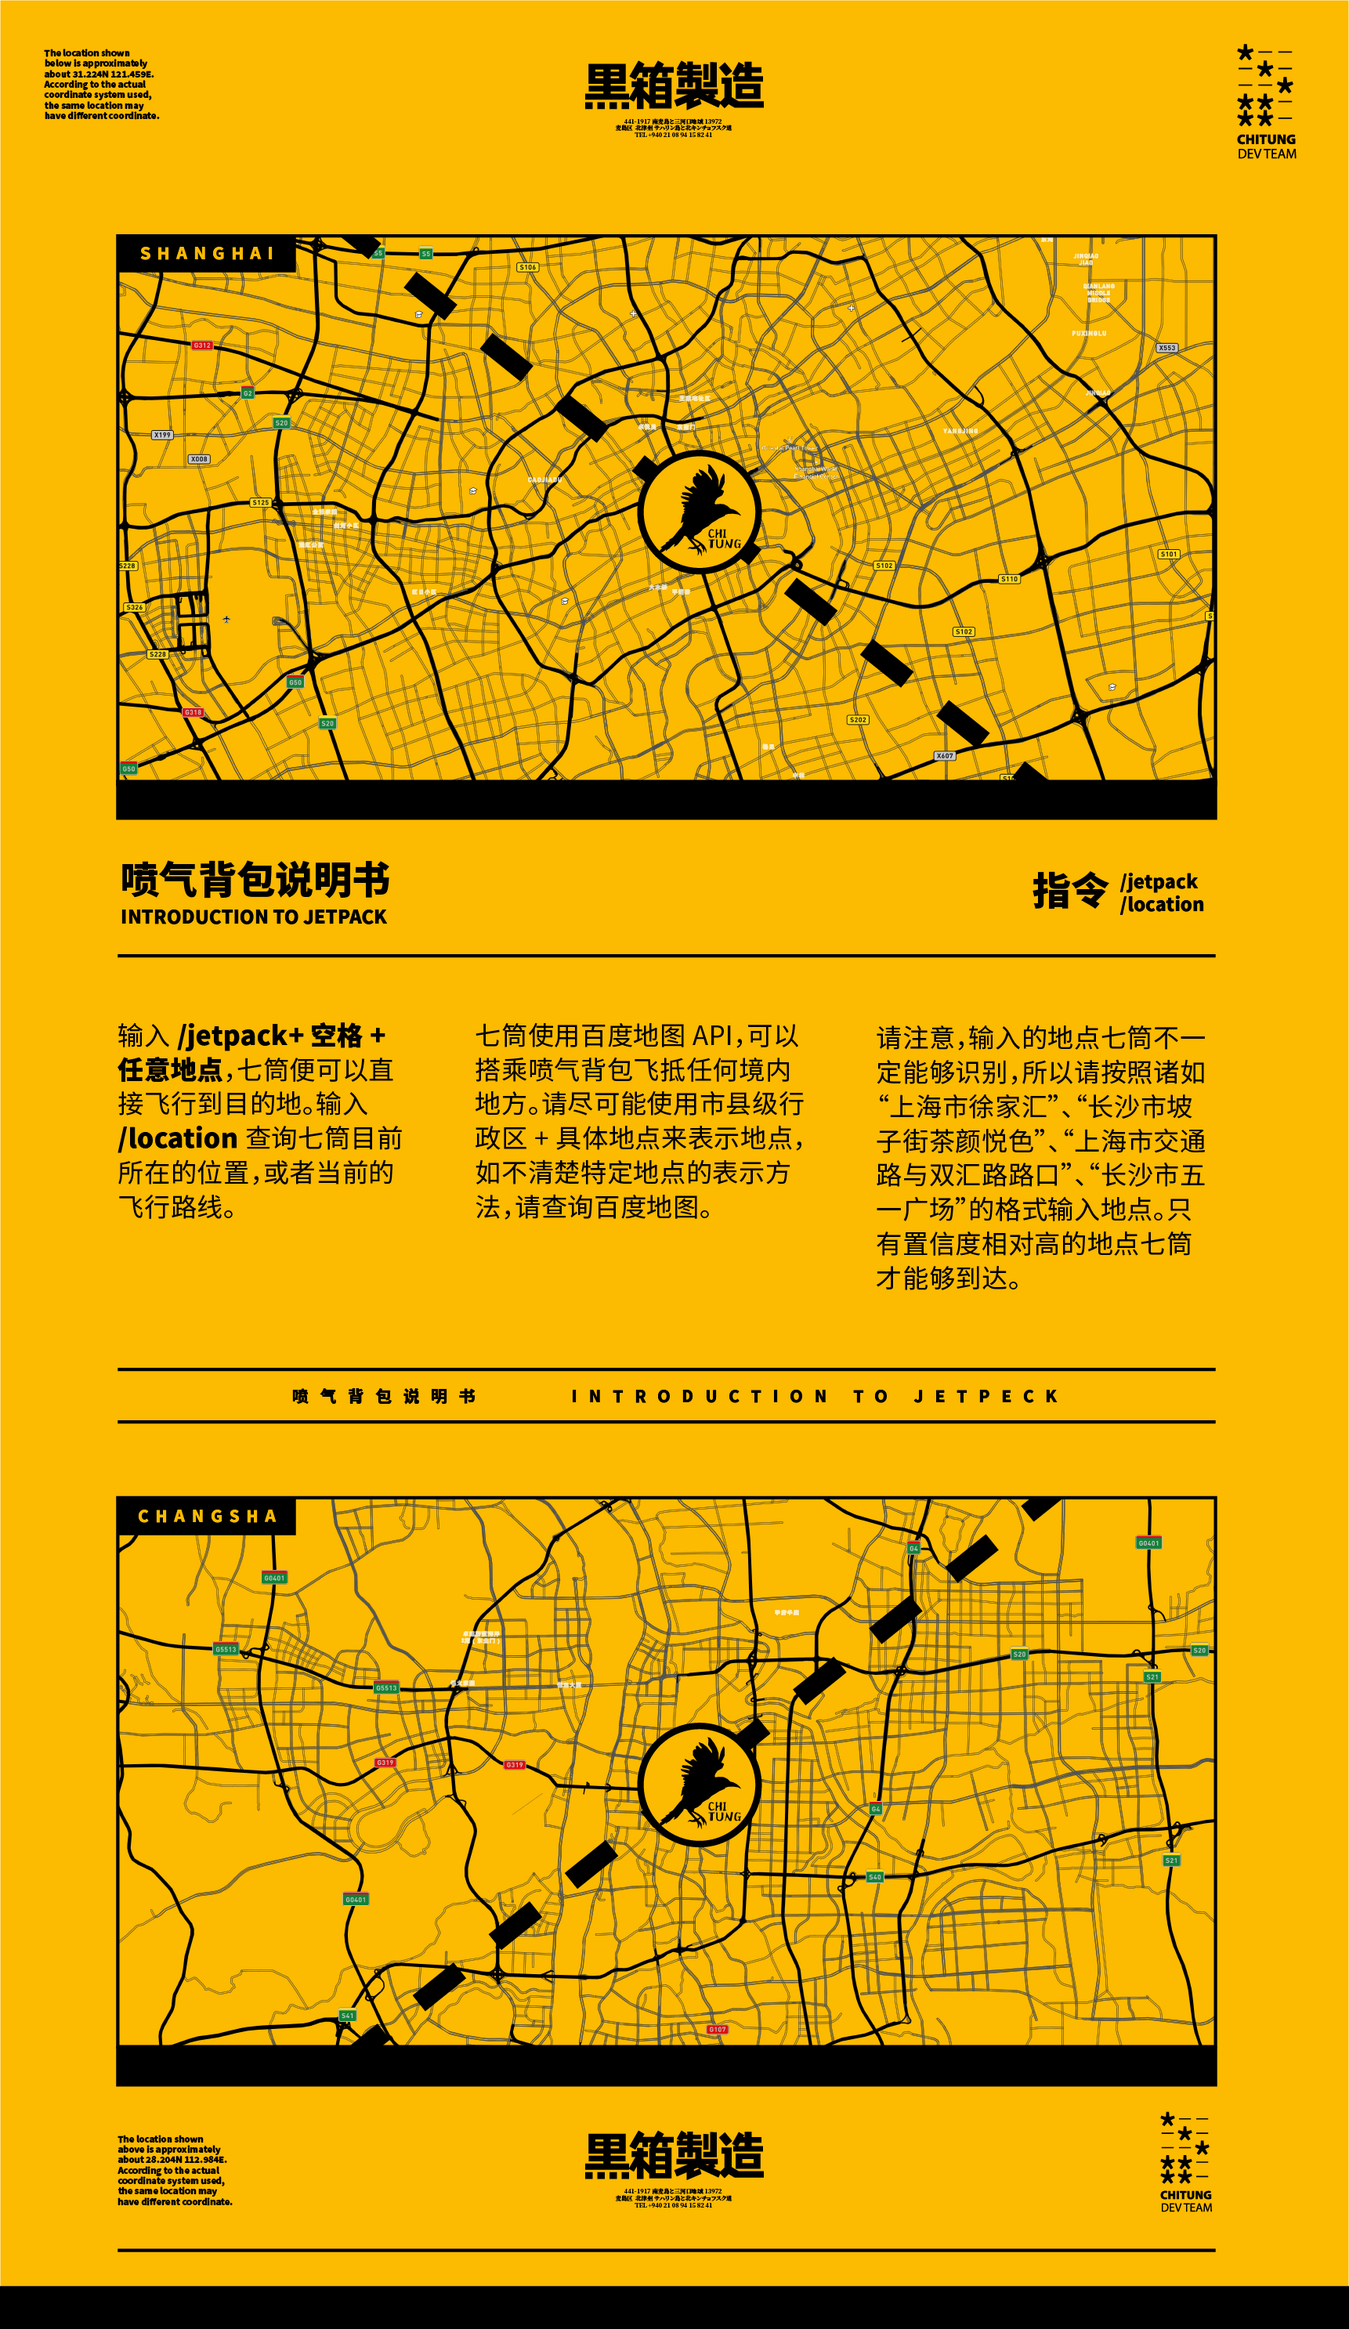
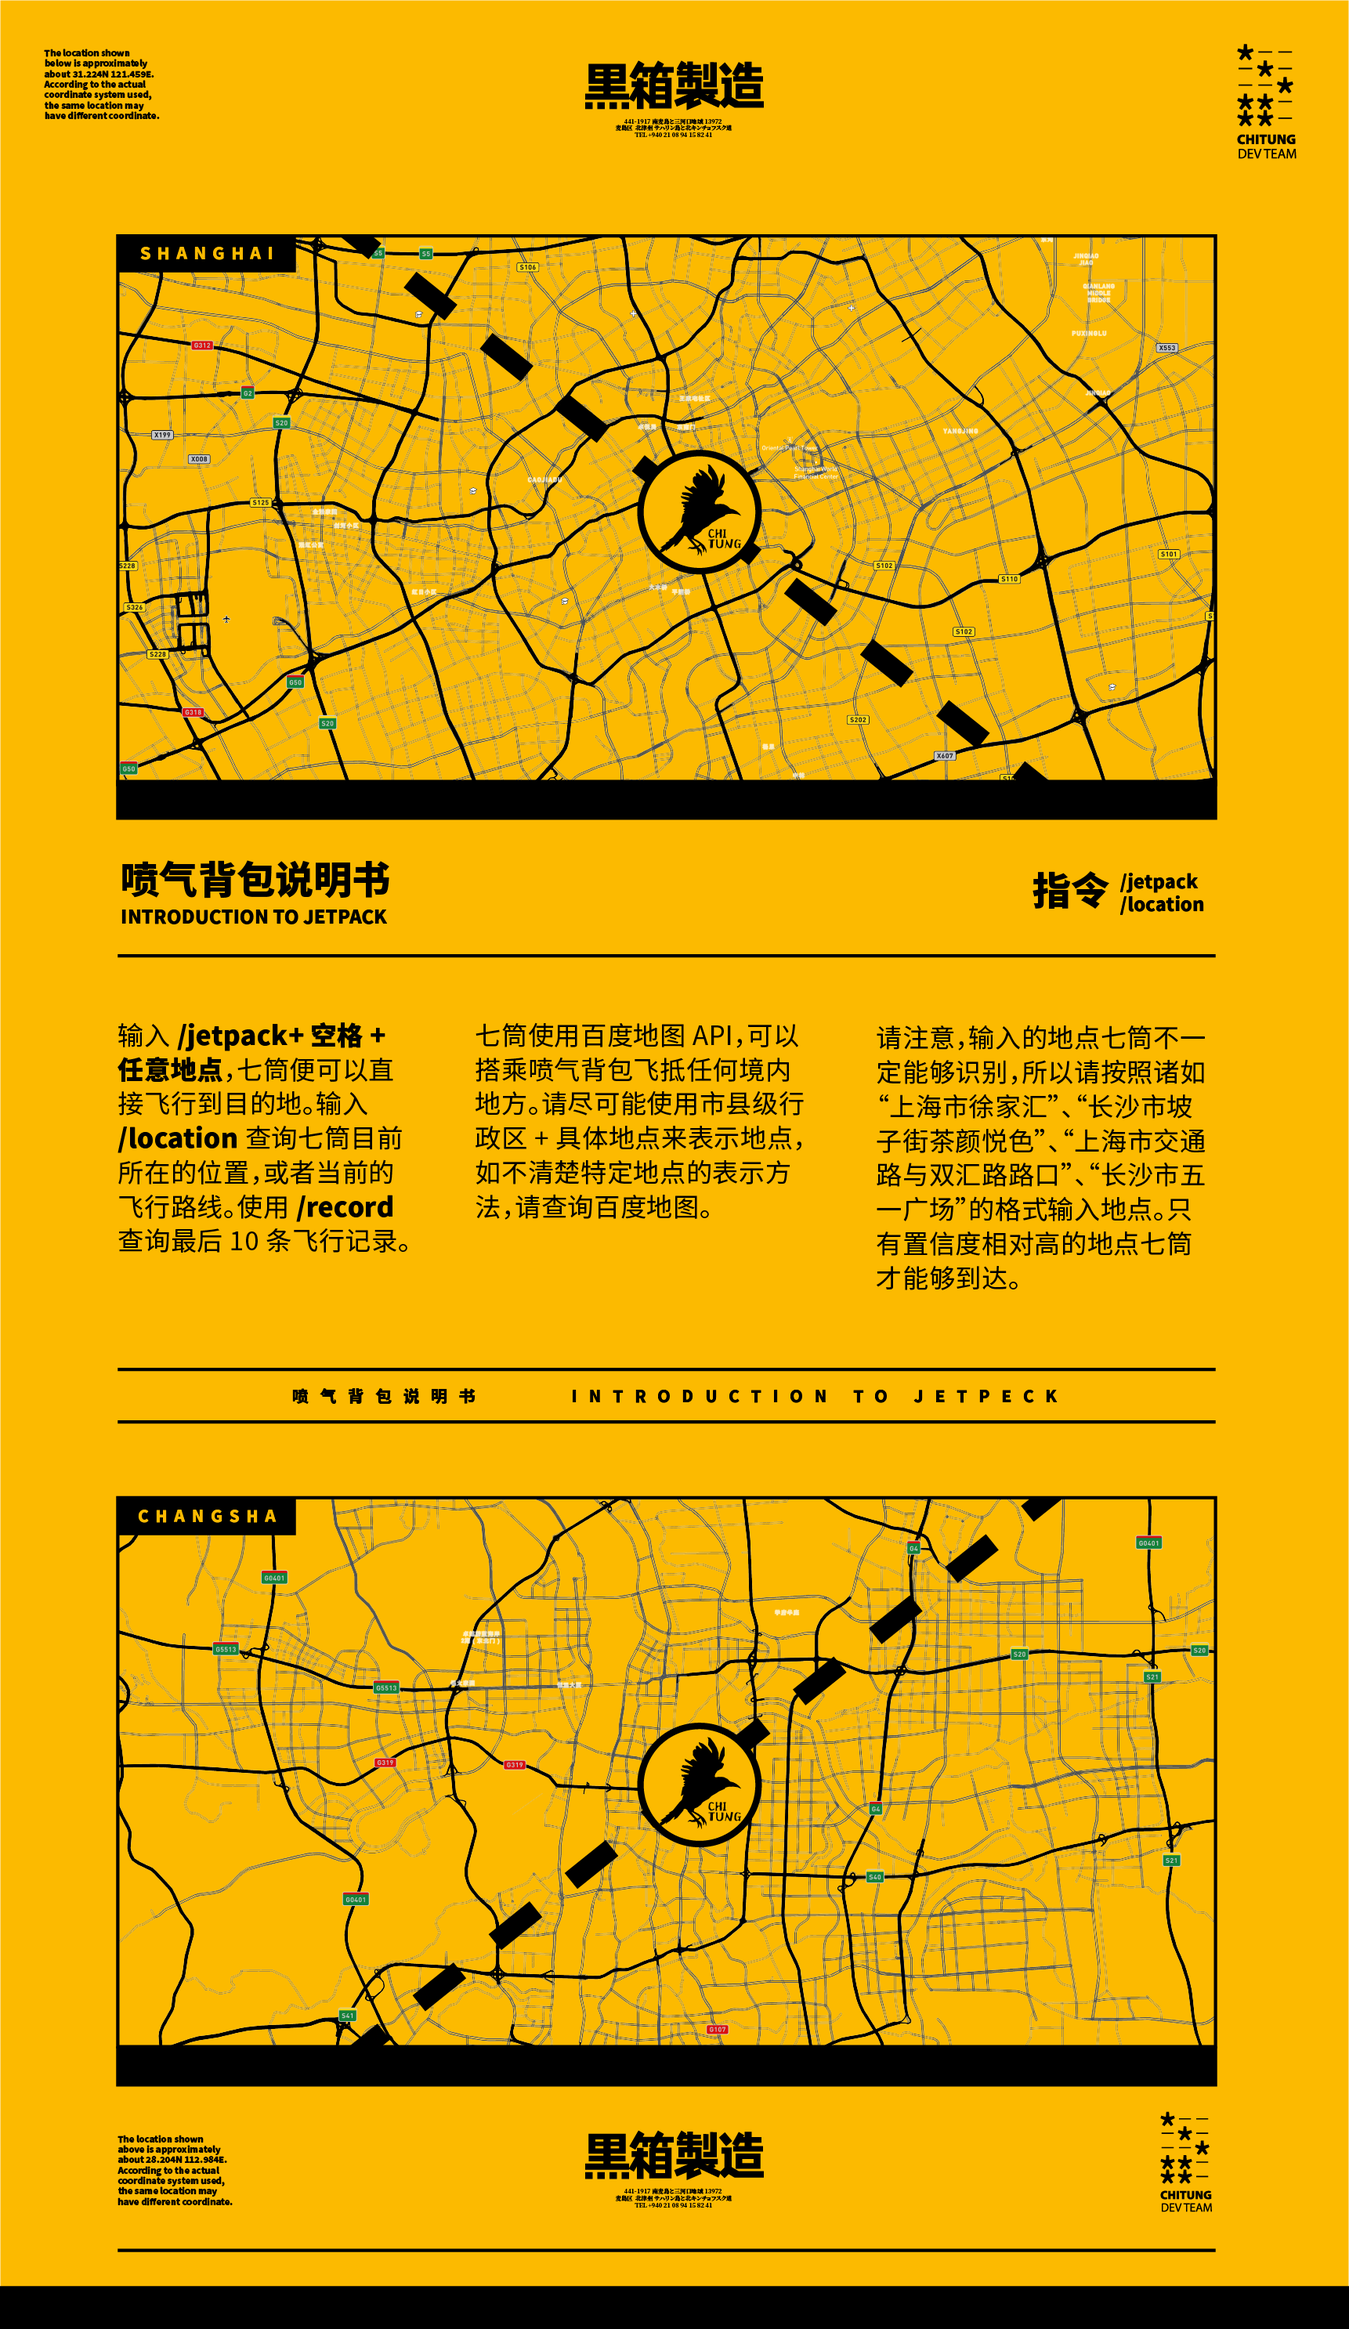
Bug fix

diff --git a/src/main/java/lielietea/mirai/plugin/utils/multibot/MultiBotHandler.java b/src/main/java/lielietea/mirai/plugin/utils/multibot/MultiBotHandler.java
@@ -21,10 +21,10 @@ public class MultiBotHandler {
 
     final static String BOT_CONFIGURATION_PATH = System.getProperty("user.dir") + File.separator + "data" + File.separator + "botconfig.json";
     public enum BotName{
-        Chitung(340865180L),     //红七筒
-        Chitung2(3628496803L),   //蓝七筒
-        Chitung3(384087036L),    //引号
-        Chitung4(2429465624L );  //黄七筒
+        //Chitung(340865180L),     //红七筒
+        Chitung1(3628496803L),   //蓝七筒
+        Chitung2(2429465624L ),  //黄七筒
+        Chitung3(3582637350L);    //绿七筒
 
         private final long value;
 
@@ -53,6 +53,7 @@ public class MultiBotHandler {
 
     static {
         INSTANCE = new MultiBotHandler();
+        initialize();
     }
 
     public BotConfigList botConfigList;
@@ -70,6 +71,9 @@ public class MultiBotHandler {
                 e.printStackTrace();
             }
         } else {
+            for (BotName bt : BotName.values()) {
+                getINSTANCE().botConfigList.botConfigs.add(new BotConfig(bt.getValue()));
+            }
             writeRecord();
         }
     }
@@ -84,9 +88,6 @@ public class MultiBotHandler {
     }
 
     public static void writeRecord(){
-        for (BotName bt : BotName.values()) {
-            getINSTANCE().botConfigList.botConfigs.add(new BotConfig(bt.getValue()));
-        }
         String jsonString = new GsonBuilder().setPrettyPrinting().create().toJson(getINSTANCE().botConfigList);
         Write.cover(jsonString, BOT_CONFIGURATION_PATH);
     }
@@ -109,6 +110,7 @@ public class MultiBotHandler {
                 sb.append("\n").append(bot.getId()).append(" ").append(bot.getNick());
             }
         }
+        if(Bot.getInstances().size()==1) sb.append("\n\n艹 我们没号了，你先别加群了。");
         return sb.toString();
     }
 
@@ -153,19 +155,36 @@ public class MultiBotHandler {
                 event.getSubject().sendMessage("/config指示器使用错误。");
                 return;
             }
+            if(Boolean.parseBoolean(messageSplit[2]) &&!messageSplit[2].contains("r")){
+                event.getSubject().sendMessage("Boolean设置错误。");
+                return;
+            }
+            if(!Boolean.parseBoolean(messageSplit[2]) &&!messageSplit[2].contains("a")){
+                event.getSubject().sendMessage("Boolean设置错误。");
+                return;
+            }
+
             getINSTANCE().botConfigList = readRecord();
             switch(messageSplit[1]){
                 case "1":{
-                    getINSTANCE().botConfigList.botConfigs.get(getINSTANCE().getIndexOfBot(event.getBot().getId())).setAcceptFriend(Boolean.getBoolean(messageSplit[2]));
+                    getINSTANCE().botConfigList.botConfigs.get(getINSTANCE().getIndexOfBot(event.getBot().getId())).setAcceptFriend(Boolean.parseBoolean(messageSplit[2]));
+                    event.getSubject().sendMessage("已设置acceptFriend为"+Boolean.parseBoolean(messageSplit[2]));
+                    break;
                 }
                 case "2":{
-                    getINSTANCE().botConfigList.botConfigs.get(getINSTANCE().getIndexOfBot(event.getBot().getId())).setAcceptGroup(Boolean.getBoolean(messageSplit[2]));
+                    getINSTANCE().botConfigList.botConfigs.get(getINSTANCE().getIndexOfBot(event.getBot().getId())).setAcceptGroup(Boolean.parseBoolean(messageSplit[2]));
+                    event.getSubject().sendMessage("已设置acceptGroup为"+Boolean.parseBoolean(messageSplit[2]));
+                    break;
                 }
                 case "3":{
-                    getINSTANCE().botConfigList.botConfigs.get(getINSTANCE().getIndexOfBot(event.getBot().getId())).setAnswerFriend(Boolean.getBoolean(messageSplit[2]));
+                    getINSTANCE().botConfigList.botConfigs.get(getINSTANCE().getIndexOfBot(event.getBot().getId())).setAnswerFriend(Boolean.parseBoolean(messageSplit[2]));
+                    event.getSubject().sendMessage("已设置answerFriend为"+Boolean.parseBoolean(messageSplit[2]));
+                    break;
                 }
                 case "4":{
-                    getINSTANCE().botConfigList.botConfigs.get(getINSTANCE().getIndexOfBot(event.getBot().getId())).setAnswerGroup(Boolean.getBoolean(messageSplit[2]));
+                    getINSTANCE().botConfigList.botConfigs.get(getINSTANCE().getIndexOfBot(event.getBot().getId())).setAnswerGroup(Boolean.parseBoolean(messageSplit[2]));
+                    event.getSubject().sendMessage("已设置answerGroup为"+Boolean.parseBoolean(messageSplit[2]));
+                    break;
                 }
             }
             writeRecord();

diff --git a/src/main/java/lielietea/mirai/plugin/core/messagehandler/game/montecarlo/roulette/Roulette.java b/src/main/java/lielietea/mirai/plugin/core/messagehandler/game/montecarlo/roulette/Roulette.java
@@ -3,12 +3,16 @@ package lielietea.mirai.plugin.core.messagehandler.game.montecarlo.roulette;
 import com.google.common.collect.HashBasedTable;
 import com.google.common.collect.Table;
 import lielietea.mirai.plugin.core.messagehandler.game.bancodeespana.SenoritaCounter;
+import lielietea.mirai.plugin.core.messagehandler.game.montecarlo.blackjack.BlackJack;
+import net.mamoe.mirai.contact.Contact;
 import net.mamoe.mirai.contact.Friend;
 import net.mamoe.mirai.event.events.GroupMessageEvent;
 import net.mamoe.mirai.event.events.MessageEvent;
 import net.mamoe.mirai.message.data.At;
 import net.mamoe.mirai.message.data.MessageChainBuilder;
 
+import java.io.IOException;
+import java.io.InputStream;
 import java.util.*;
 import java.util.concurrent.Executors;
 import java.util.concurrent.ScheduledExecutorService;
@@ -39,7 +43,7 @@ public class Roulette extends RouletteUtils{
 
     static ScheduledExecutorService executor = Executors.newScheduledThreadPool(1);
 
-    static final int GAP_SECONDS = 30;
+    static final int GAP_SECONDS = 60;
 
     static final String RouletteRules = "里格斯公司邀请您参与本局 Roulette，请在60秒之内输入 /bet+数字 参与游戏。";
     static final String RouletteStops = "本局 Roulette 已经取消。";
@@ -50,6 +54,9 @@ public class Roulette extends RouletteUtils{
     static final String StartOperateNotice = "现在可以进行操作，请在60秒之内完成。功能列表请参考说明书。";
     static final String EndGameNotice = "本局游戏已经结束，里格斯公司感谢您的参与。如下为本局玩家的获得金额：";
 
+    static final String ROULETTE_INTRO_PATH = "/pics/casino/roulette.png";
+    static final String ROULETTE_INSTRUCTIONS_PATH = "/pics/casino/roulette_instructions.png";
+
     public static void go(MessageEvent event){
         start(event);
         preBet(event);
@@ -59,6 +66,14 @@ public class Roulette extends RouletteUtils{
     public static void start(MessageEvent event){
         if(!isRoulette(event)) return;
         event.getSubject().sendMessage(RouletteRules);
+
+        try (InputStream img = Roulette.class.getResourceAsStream(ROULETTE_INTRO_PATH)) {
+            assert img != null;
+            event.getSubject().sendMessage(Contact.uploadImage(event.getSubject(), img));
+        } catch (IOException e) {
+            e.printStackTrace();
+        }
+
         if(isGroupMessage(event)){
             getINSTANCE().GroupStatusMap.put(event.getSubject().getId(),StatusType.Callin);
         } else {
@@ -240,6 +255,14 @@ public class Roulette extends RouletteUtils{
             getINSTANCE().FriendStatusMap.put(event.getSubject().getId(),StatusType.Bet);
         }
         event.getSubject().sendMessage(new MessageChainBuilder().append(EndBetNotice).append(StartOperateNotice).asMessageChain());
+
+        try (InputStream img = Roulette.class.getResourceAsStream(ROULETTE_INSTRUCTIONS_PATH)) {
+            assert img != null;
+            event.getSubject().sendMessage(Contact.uploadImage(event.getSubject(), img));
+        } catch (IOException e) {
+            e.printStackTrace();
+        }
+
         executor.schedule(new EndBet(event),GAP_SECONDS*2,TimeUnit.SECONDS);
     }
 

diff --git a/src/main/java/lielietea/mirai/plugin/utils/ContactUtil.java b/src/main/java/lielietea/mirai/plugin/utils/ContactUtil.java
@@ -20,9 +20,13 @@ public class ContactUtil {
 
     // 决定是否接收加群邀请
     public static void handleGroupInvitation(BotInvitedJoinGroupRequestEvent event) {
-        if(IdentityUtil.isAdmin(Objects.requireNonNull(event.getInvitor()).getId())) event.accept();
+        if(IdentityUtil.isAdmin(Objects.requireNonNull(event.getInvitor()).getId())) {
+            event.accept();
+            return;
+        }
         if (!MultiBotHandler.canAcceptGroup(event.getBot().getId())) {
             event.getInvitor().sendMessage(MultiBotHandler.rejectInformation(event.getBot().getId()));
+            event.ignore();
         } else {
             event.accept();
         }
@@ -32,12 +36,23 @@ public class ContactUtil {
     // 决定是否接收好友请求
     public static void handleFriendRequest(NewFriendRequestEvent event) {
         if(IdentityUtil.isAdmin(event.getFromId())) event.accept();
-        if (!MultiBotHandler.canAcceptFriend(event.getBot().getId())) return;
+        if (!MultiBotHandler.canAcceptFriend(event.getBot().getId())) {
+            event.reject(false);
+            return;
+        }
         event.accept();
     }
 
     // 处理加群事件
     public static void handleJoinGroup(BotJoinGroupEvent event) {
+        if(!MultiBotHandler.canAcceptGroup(event.getBot().getId())){
+            ((BotJoinGroupEvent.Invite) event).getInvitor().sendMessage(MultiBotHandler.rejectInformation(event.getBot().getId()));
+            event.getGroup().quit();
+            String content = "由于目前Bot不接受添加群聊，已从 "+event.getGroup().getName()+"("+event.getGroup().getId()+")"+"出逃。";
+            MessageUtil.notifyDevGroup(content,event.getBot().getId());
+            return;
+        }
+
         // 正常通过群邀请加群
         sendNoticeWhenJoinGroup(event);
         notifyDevWhenJoinGroup(event, JoinGroupSourceType.INVITE);

diff --git a/src/main/java/lielietea/mirai/plugin/JavaPluginMain.java b/src/main/java/lielietea/mirai/plugin/JavaPluginMain.java
@@ -57,8 +57,6 @@ public final class JavaPluginMain extends JavaPlugin {
 
         ResponderManager.getINSTANCE().ini();
 
-        MultiBotHandler.getINSTANCE().initialize();
-
         GlobalEventChannel.INSTANCE.subscribeAlways(BotOnlineEvent.class, event -> {
             Optional.ofNullable(event.getBot().getGroup(IdentityUtil.DevGroup.DEFAULT.getID())).ifPresent(group -> group.sendMessage("老子来了"));
         });
@@ -91,7 +89,7 @@ public final class JavaPluginMain extends JavaPlugin {
         GlobalEventChannel.INSTANCE.subscribeAlways(GroupMessageEvent.class, event -> {
 
             if(!MultiBotHandler.canAnswerGroup(event)) return;
-
+            if(IdentityUtil.isBot(event)) return;
             //所有消息之后都集中到这个地方处理
             MessageDispatcher.getINSTANCE().handleMessage(event);
             //管理员功能
@@ -141,6 +139,7 @@ public final class JavaPluginMain extends JavaPlugin {
         GlobalEventChannel.INSTANCE.subscribeAlways(FriendMessageEvent.class, event -> {
 
             if(!MultiBotHandler.canAnswerFriend(event)) return;
+            if(IdentityUtil.isBot(event)) return;
 
             //所有消息之后都集中到这个地方处理
             MessageDispatcher.getINSTANCE().handleMessage(event);

diff --git a/src/main/java/lielietea/mirai/plugin/core/messagehandler/game/jetpack/JetPack.java b/src/main/java/lielietea/mirai/plugin/core/messagehandler/game/jetpack/JetPack.java
@@ -162,7 +162,7 @@ public class JetPack extends BaiduAPI {
                 int lrListSize = lrList.size();
                 int index = 0;
                 for (locationRecord lr : lrList) {
-                    if(index>=lrListSize-25) recordStr.append(lr.locationName).append(",").append((double) Math.round(lr.lng * 100) / 100).append(",").append((double) Math.round(lr.lat * 100) / 100).append("\n");
+                    if(index>=lrListSize-10) recordStr.append(lr.locationName).append(",").append((double) Math.round(lr.lng * 100) / 100).append(",").append((double) Math.round(lr.lat * 100) / 100).append("\n");
                     index+=1;
                 }
                 event.getSubject().sendMessage(recordStr.toString());

diff --git a/src/main/java/lielietea/mirai/plugin/core/messagehandler/responder/ResponderManager.java b/src/main/java/lielietea/mirai/plugin/core/messagehandler/responder/ResponderManager.java
@@ -51,7 +51,7 @@ public class ResponderManager {
                            public void run() {
                                String result = ResponderManager.getINSTANCE().optimizeHandlerSequence(true);
                                //Notify Devs
-                               MessageUtil.notifyDevGroup(result, MultiBotHandler.BotName.Chitung.getValue());
+                               MessageUtil.notifyDevGroup(result, MultiBotHandler.BotName.Chitung1.getValue());
                                for(Bot bot: Bot.getInstances()){
                                    MessageUtil.notifyDevGroup(MPSEStatistics.buildMPSEStatistics(bot.getId()));
                                }

diff --git a/src/main/java/lielietea/mirai/plugin/core/messagehandler/responder/mahjong/FortuneTeller.java b/src/main/java/lielietea/mirai/plugin/core/messagehandler/responder/mahjong/FortuneTeller.java
@@ -107,7 +107,11 @@ public class FortuneTeller implements MessageResponder<MessageEvent> {
                 e.printStackTrace();
             }
         });
-        builder.addMessage(new At(event.getSender().getId()).plus(whatDoesMahjongSay(event)));
+        if(event.getClass().equals(GroupMessageEvent.class)){
+            builder.addMessage(new At(event.getSender().getId()).plus(whatDoesMahjongSay(event)));
+        } else {
+            builder.addMessage(whatDoesMahjongSay(event));
+        }
         return builder.build();
     }
 

diff --git a/src/main/java/lielietea/mirai/plugin/administration/statistics/MPSEHandler/MPSEProcessor.java b/src/main/java/lielietea/mirai/plugin/administration/statistics/MPSEHandler/MPSEProcessor.java
@@ -37,7 +37,7 @@ public class MPSEProcessor {
         DataList dataList = new Gson().fromJson(Read.fromReader(new BufferedReader(new InputStreamReader(new FileInputStream(FILE_PATH)))), DataList.class);
         if(dataList == null){
             dataList = new DataList();
-            dataList.addDataIntoDatas(new Data(new Date(), MultiBotHandler.BotName.Chitung));
+            dataList.addDataIntoDatas(new Data(new Date(), MultiBotHandler.BotName.Chitung1));
         }
         return dataList;
     }

diff --git a/src/main/java/lielietea/mirai/plugin/utils/IdentityUtil.java b/src/main/java/lielietea/mirai/plugin/utils/IdentityUtil.java
@@ -9,7 +9,6 @@ public class IdentityUtil {
     static final Set<Long> botList = ImmutableSet.of(
             340865180L, // 本体
             3628496803L, // 欧洲测试服务
-            384087036L, // 客服：引号
             3621269439L, //wymTbot 维护者 1875018140
             736951095L //未知
     );
